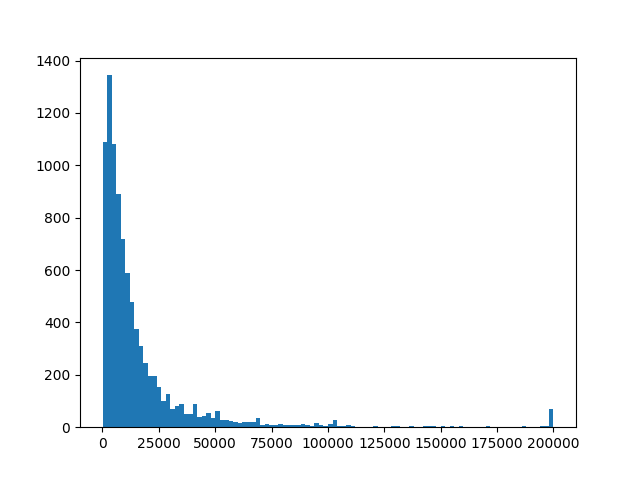
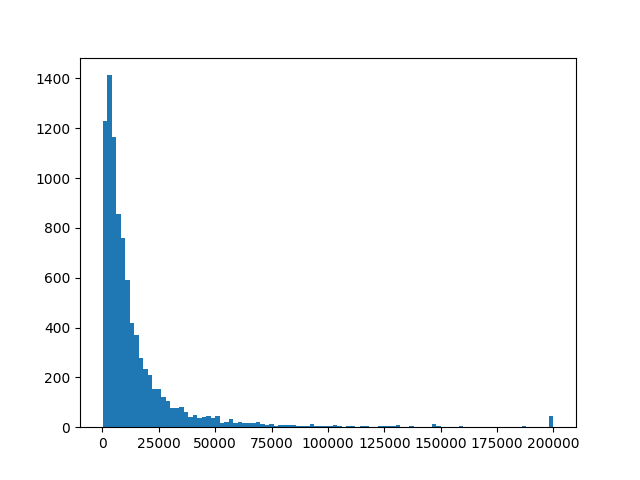
fix star distance calculation

diff --git a/scripts/analyze.py b/scripts/analyze.py
@@ -25,7 +25,21 @@ def plot_luminosities(data):
     plt.savefig("out/luminosities.png")
 
 
+def plot_decs(data):
+    plt.clf()
+    plt.hist([star.dec for star in data], bins=100)
+    plt.savefig("out/decs.png")
+
+
+def plot_ras(data):
+    plt.clf()
+    plt.hist([star.ra for star in data], bins=100)
+    plt.savefig("out/ras.png")
+
+
 if __name__ == "__main__":
     plot_distances(data)
     plot_magnitudes(data)
     plot_luminosities(data)
+    plot_decs(data)
+    plot_ras(data)

diff --git a/scripts/extract.py b/scripts/extract.py
@@ -31,7 +31,7 @@ class Star:
 
 # approximate star distance using annual change in RA/DEC and DEC
 def estimate_star_distance(delta_dec, delta_ra, dec):
-    delta_ra_arc_length = math.sin(dec) * delta_ra
+    delta_ra_arc_length = math.cos(dec) * delta_ra
     delta_norm = math.sqrt(delta_ra_arc_length**2 + delta_dec**2)
     return 1 / max(math.sin(delta_norm), 0.000005)
 
